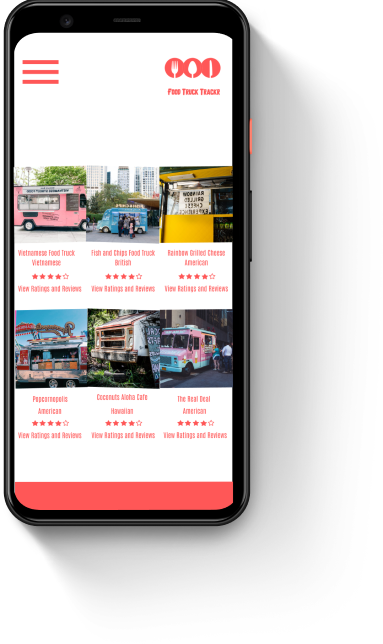
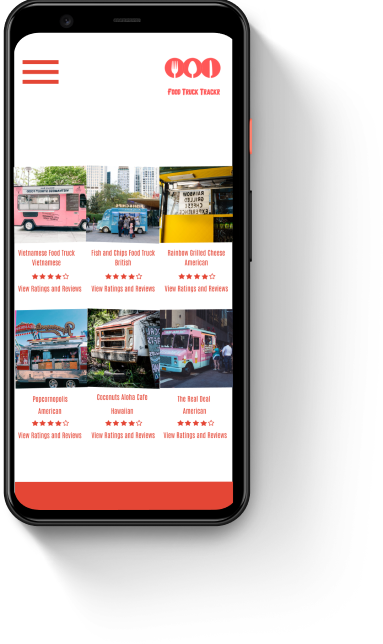
change color to match

diff --git a/client/public/index.html b/client/public/index.html
@@ -7,7 +7,7 @@
     <meta name="theme-color" content="#000000" />
     <meta
       name="description"
-      content="Web site created using create-react-app"
+      content="App that finds nearest food trucks"
     />
     <link rel="apple-touch-icon" href="%PUBLIC_URL%/logo192.png" />
     <!--
@@ -38,7 +38,7 @@
       work correctly both with client-side routing and a non-root public URL.
       Learn how to configure a non-root public URL by running `npm run build`.
     -->
-    <title>React App</title>
+    <title>Food Truck Trackr</title>
   </head>
   <body>
     <noscript>You need to enable JavaScript to run this app.</noscript>

diff --git a/client/src/components/Action.js b/client/src/components/Action.js
@@ -20,7 +20,7 @@ h1 {
     line-height: 2;
 }
 .strip {
-    background-color: #ff5757;
+    background-color: #e44635;
     height: 250px;
     width: 100%;
     margin-top: 30%;
@@ -69,7 +69,7 @@ button {
     height: 50px;
     font-size: 1rem;
     font-family: 'Fjalla One';
-    background-color: #ff5757;
+    background-color: #e44635;
     color: white;
     }
 

diff --git a/client/src/components/footer.js b/client/src/components/footer.js
@@ -4,7 +4,7 @@ import styled from 'styled-components'
 
 const Foot = styled.div `
 .footer {
-    background-color: #ff5757 !important;
+    background-color: #e44635 !important;
 }
 a {
     color: white;

diff --git a/client/src/components/nav.js b/client/src/components/nav.js
@@ -5,7 +5,7 @@ import M, {options, instances} from 'materialize-css';
 
 const Navi = styled.div `
 a {
-    color: #FF5757 !important;
+    color: #e44635 !important;
     text-decoration: none;
 }
 

diff --git a/client/src/components/bottom.js b/client/src/components/bottom.js
@@ -8,7 +8,7 @@ import two from '../images/2.png'
 import three from '../images/3.png'
 
 const Below = styled.div ` 
-margin-top: 40%;
+margin-top: 30%;
 .slider {
   width: 100%;
   height: 30vw;
